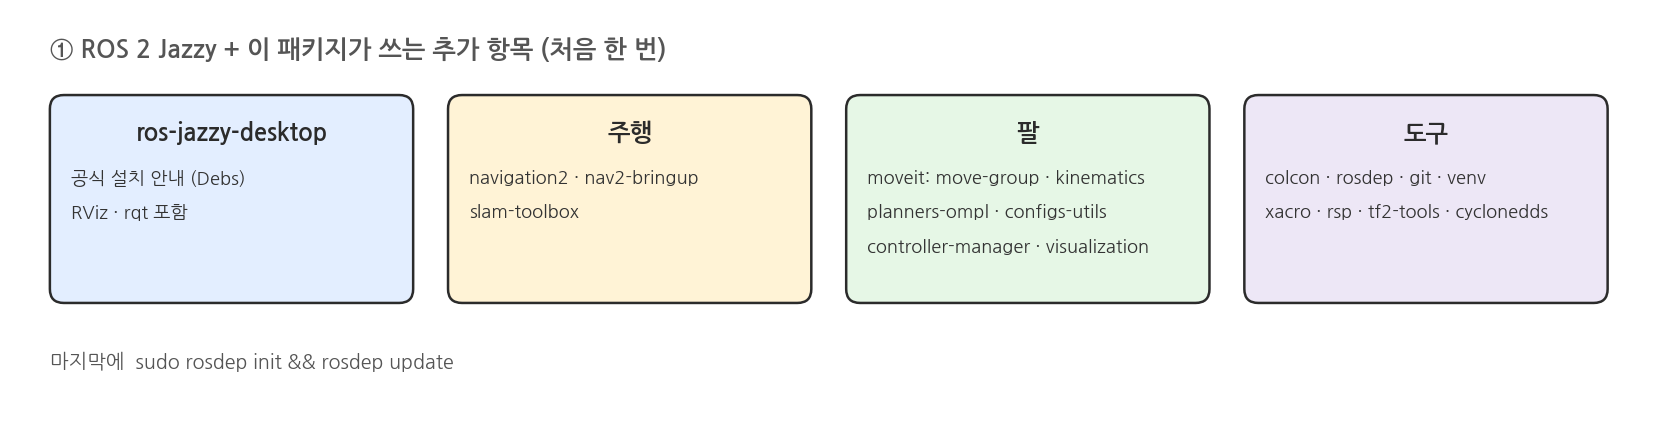
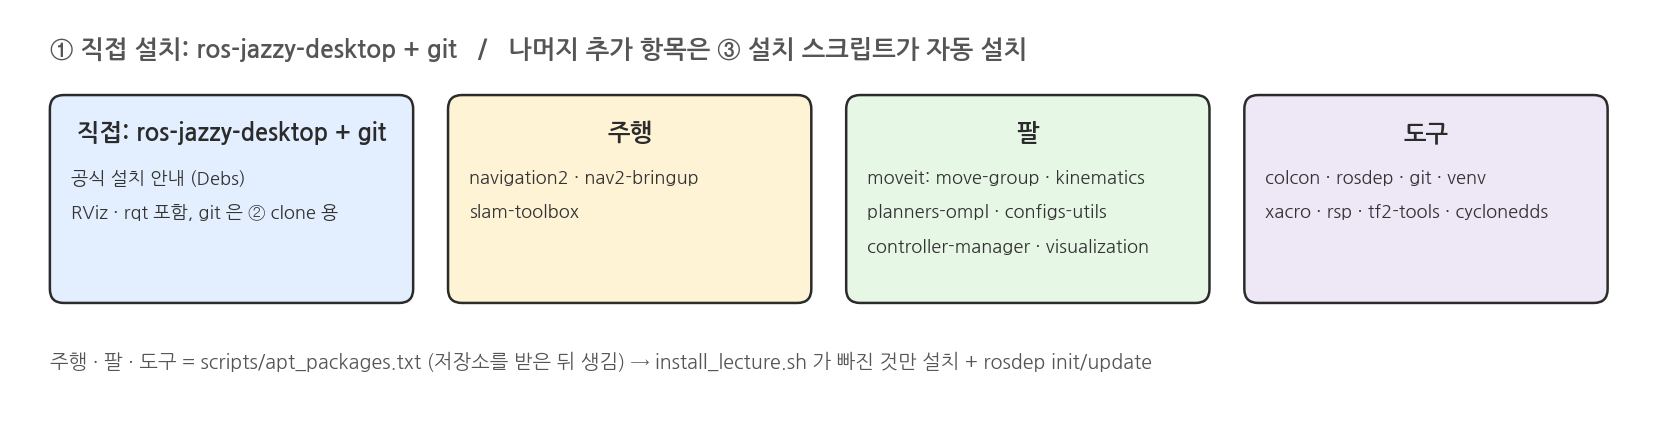
Setup page: install only ROS 2 Desktop and git before the clone
Step ① told students to run `grep ... scripts/apt_packages.txt | xargs sudo
apt install`, but that file only exists after the clone in step ②. ① now
installs ros-jazzy-desktop and git only; the optional apt pre-install moved
under ③ (run inside the cloned repository). The install-flow and ① figures
are redrawn to match: install_lecture.sh installs the extra apt packages and
runs rosdep, doctor checks the result, and new terminals need no source.
Confluence page 3692331054 v37.

diff --git a/docs/camp/draw_setup_figures.py b/docs/camp/draw_setup_figures.py
@@ -33,11 +33,11 @@ def install_flow():
     fig, ax = plt.subplots(figsize=(14, 4.2), dpi=150)
     ax.set_xlim(0, 14); ax.set_ylim(0, 4.2); ax.axis("off")
     steps = [
-        ("1  ROS 2 Jazzy", ["ros-jazzy-desktop", "Nav2 · SLAM Toolbox", "MoveIt · RViz · xacro", "rosdep init / update"], "#E3EEFF"),
-        ("2  저장소 받기", ["git clone <GitHub 저장소>", "cd pinklab_mobile_…", "source /opt/ros/jazzy/", "        setup.bash"], "#FFF3D6"),
-        ("3  install_lecture.sh", ["rosdep 확인", "venv (.venv-mobile-openarm)", "pip: torch CPU · ultralytics", "colcon build · pytest"], "#E6F7E6"),
+        ("1  ROS 2 Jazzy", ["ros-jazzy-desktop", "(공식 안내 · 직접)", "sudo apt install git"], "#E3EEFF"),
+        ("2  저장소 받기", ["git clone -b lecture-2026-11", "  <GitHub 저장소>", "cd pinklab_mobile_…"], "#FFF3D6"),
+        ("3  install_lecture.sh", ["apt 추가 패키지 · rosdep", "venv · pip · 충돌 검사", "colcon build · pytest", "→ doctor 로 점검"], "#E6F7E6"),
         ("4  .env", ["cp .env.example .env", "OPENAI_API_KEY=…", "LLM 모듈에서만 필요", "키는 강사가 배포"], "#FFE0E0"),
-        ("5  확인", ["pytest 41개 PASS", "start → 준비 완료 3줄", "goal 1.0 0.6 0", "pick red (약 3분)"], "#EDE7F6"),
+        ("5  확인", ["doctor 실패 0건", "start → MuJoCo + RViz", "goal 1.0 0.6 0", "pick red (약 3분)"], "#EDE7F6"),
     ]
     w, gap, x = 2.45, 0.35, 0.3
     for i, (title, lines, fc) in enumerate(steps):
@@ -46,7 +46,7 @@ def install_flow():
             arrow(ax, (x + w, 2.15), (x + w + gap, 2.15))
         x += w + gap
     ax.text(0.3, 4.0, "설치 흐름 (처음 한 번, 10~20분)", fontsize=12, fontweight="bold", color=INK, va="top")
-    ax.text(0.3, 0.45, "매 터미널:  source /opt/ros/jazzy/setup.bash  →  source scripts/env.sh", fontsize=10, color="#444444", va="top")
+    ax.text(0.3, 0.45, "새 터미널에서 source 불필요: ./scripts/mobile_openarm 이 ROS 2 Jazzy 와 venv 를 스스로 켠다", fontsize=10, color="#444444", va="top")
     fig.savefig(OUT / "setup_flow.png", bbox_inches="tight", facecolor="white")
     plt.close(fig)
 

diff --git a/docs/camp/draw_setup_detail_figures.py b/docs/camp/draw_setup_detail_figures.py
@@ -23,13 +23,13 @@ def env_cards():
 # ================================================================ 1-1. ROS 2 Jazzy packages
 def ros2_packages():
     fig, ax = fig_ax(14, 3.6)
-    note(ax, 0.3, 3.3, "① ROS 2 Jazzy + 이 패키지가 쓰는 추가 항목 (처음 한 번)", bold=True, fs=12)
-    tiles(ax, [("ros-jazzy-desktop", ["공식 설치 안내 (Debs)", "RViz · rqt 포함"], C["blue"]),
+    note(ax, 0.3, 3.3, "① 직접 설치: ros-jazzy-desktop + git   /   나머지 추가 항목은 ③ 설치 스크립트가 자동 설치", bold=True, fs=12)
+    tiles(ax, [("직접: ros-jazzy-desktop + git", ["공식 설치 안내 (Debs)", "RViz · rqt 포함, git 은 ② clone 용"], C["blue"]),
                ("주행", ["navigation2 · nav2-bringup", "slam-toolbox"], C["yellow"]),
                ("팔", ["moveit: move-group · kinematics", "planners-ompl · configs-utils", "controller-manager · visualization"], C["green"]),
                ("도구", ["colcon · rosdep · git · venv", "xacro · rsp · tf2-tools · cyclonedds"], C["purple"])],
           cols=4, y_top=2.9, h=1.8, tfs=11.5, fs=8.8)
-    note(ax, 0.3, 0.6, "마지막에  sudo rosdep init && rosdep update", fs=9.5)
+    note(ax, 0.3, 0.6, "주행 · 팔 · 도구 = scripts/apt_packages.txt (저장소를 받은 뒤 생김) → install_lecture.sh 가 빠진 것만 설치 + rosdep init/update", fs=9.5)
     save(fig, "setup_ros2_packages.png")
 
 

diff --git a/docs/camp/setup_usage.md b/docs/camp/setup_usage.md
@@ -24,13 +24,11 @@
 ### ① ROS 2 Jazzy + 추가 패키지 설치 명령
 
 - 공식 안내에 따라 `ros-jazzy-desktop` 설치: https://docs.ros.org/en/jazzy/Installation/Ubuntu-Install-Debs.html
-- 추가 apt 패키지(Nav2 · MoveIt · SLAM 등 24개)와 `rosdep init/update`는 ③ 설치 스크립트가 자동 처리 (목록: `scripts/apt_packages.txt`)
-- 미리 직접 설치하려면 아래 명령 (선택)
+- 이어서 git 설치 (② 저장소 받기에 필요)
+- 추가 apt 패키지(Nav2 · MoveIt · SLAM 등 24개)와 `rosdep init/update`는 ③ 설치 스크립트가 자동 처리
 
 ```bash
 sudo apt install git
-# (선택) 추가 패키지 미리 설치
-grep -v '^#' scripts/apt_packages.txt | xargs sudo apt install -y
 ```
 
 ### ② 저장소 받기 → ③ 설치 스크립트
@@ -56,6 +54,7 @@ cd pinklab_mobile_openarm_ros2_mujoco
 - conda base가 켜진 터미널도 가능 (venv는 항상 시스템 Python으로 생성)
 - 충돌 검사의 `WARN`은 무시 (예: `yt-dlp` ↔ `websockets`), `ERROR`는 강사에게 전달
 - 고정 버전(`numpy<2`, `opencv-python<4.11`, `setuptools<80`, `ml-dtypes<0.6`) 업그레이드 금지 — ROS Jazzy · colcon 호환
+- (선택) 추가 apt 패키지를 스크립트 전에 따로 설치: clone 한 저장소 폴더에서 `grep -v '^#' scripts/apt_packages.txt | xargs sudo apt install -y`
 
 ### install_lecture.sh 가 하는 일
 
